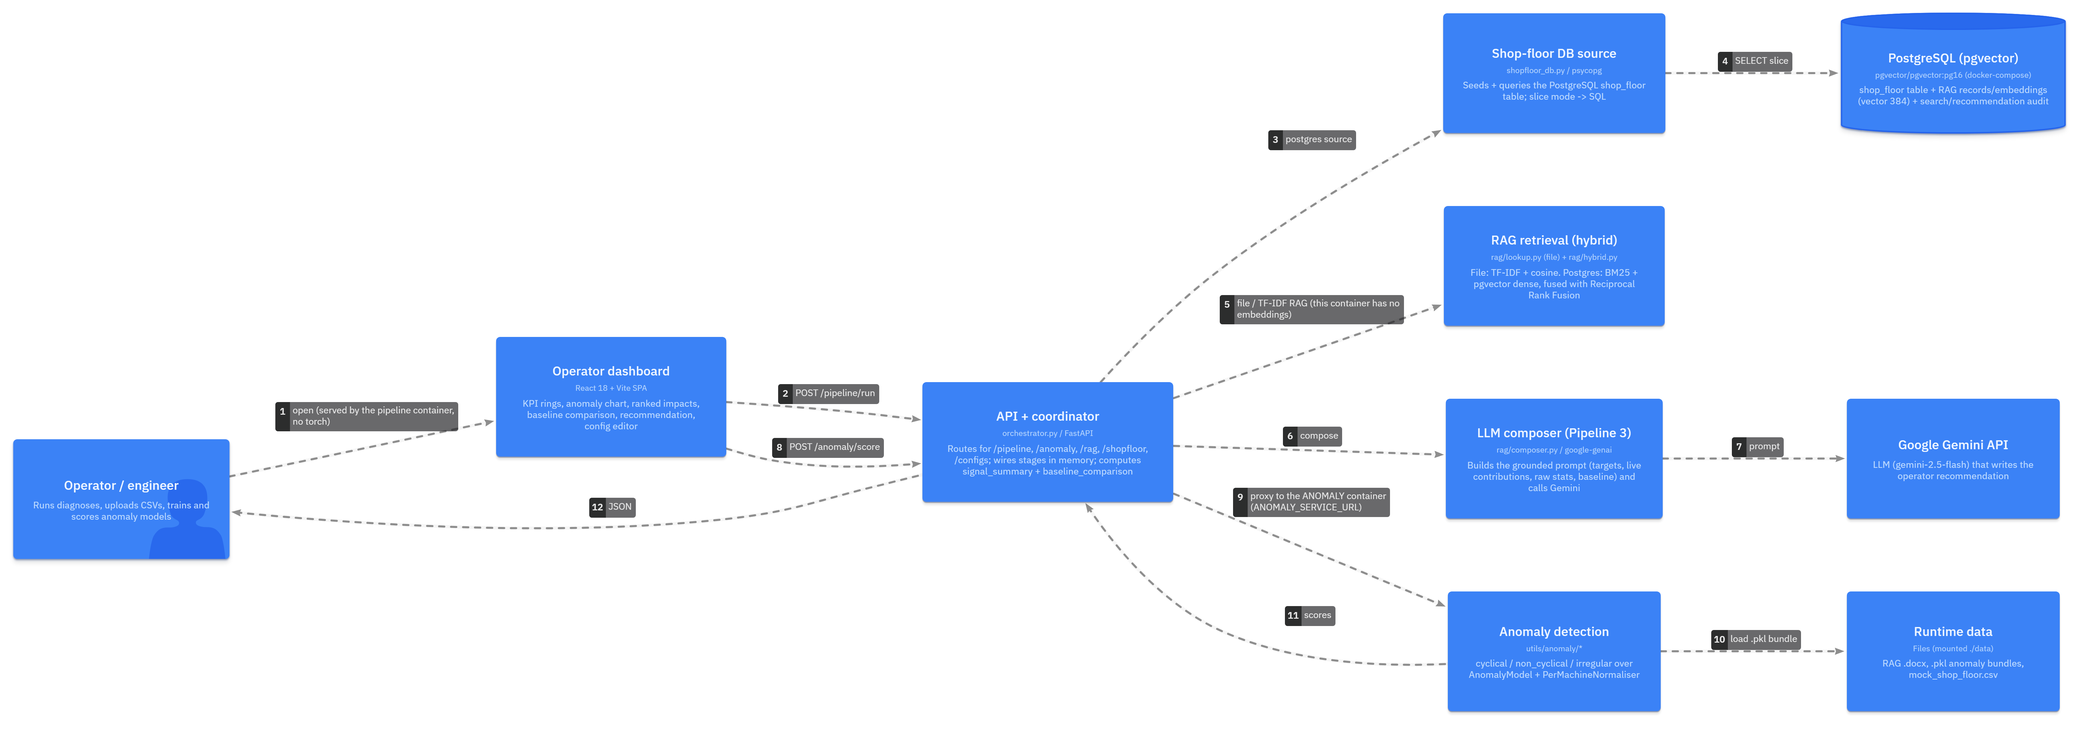
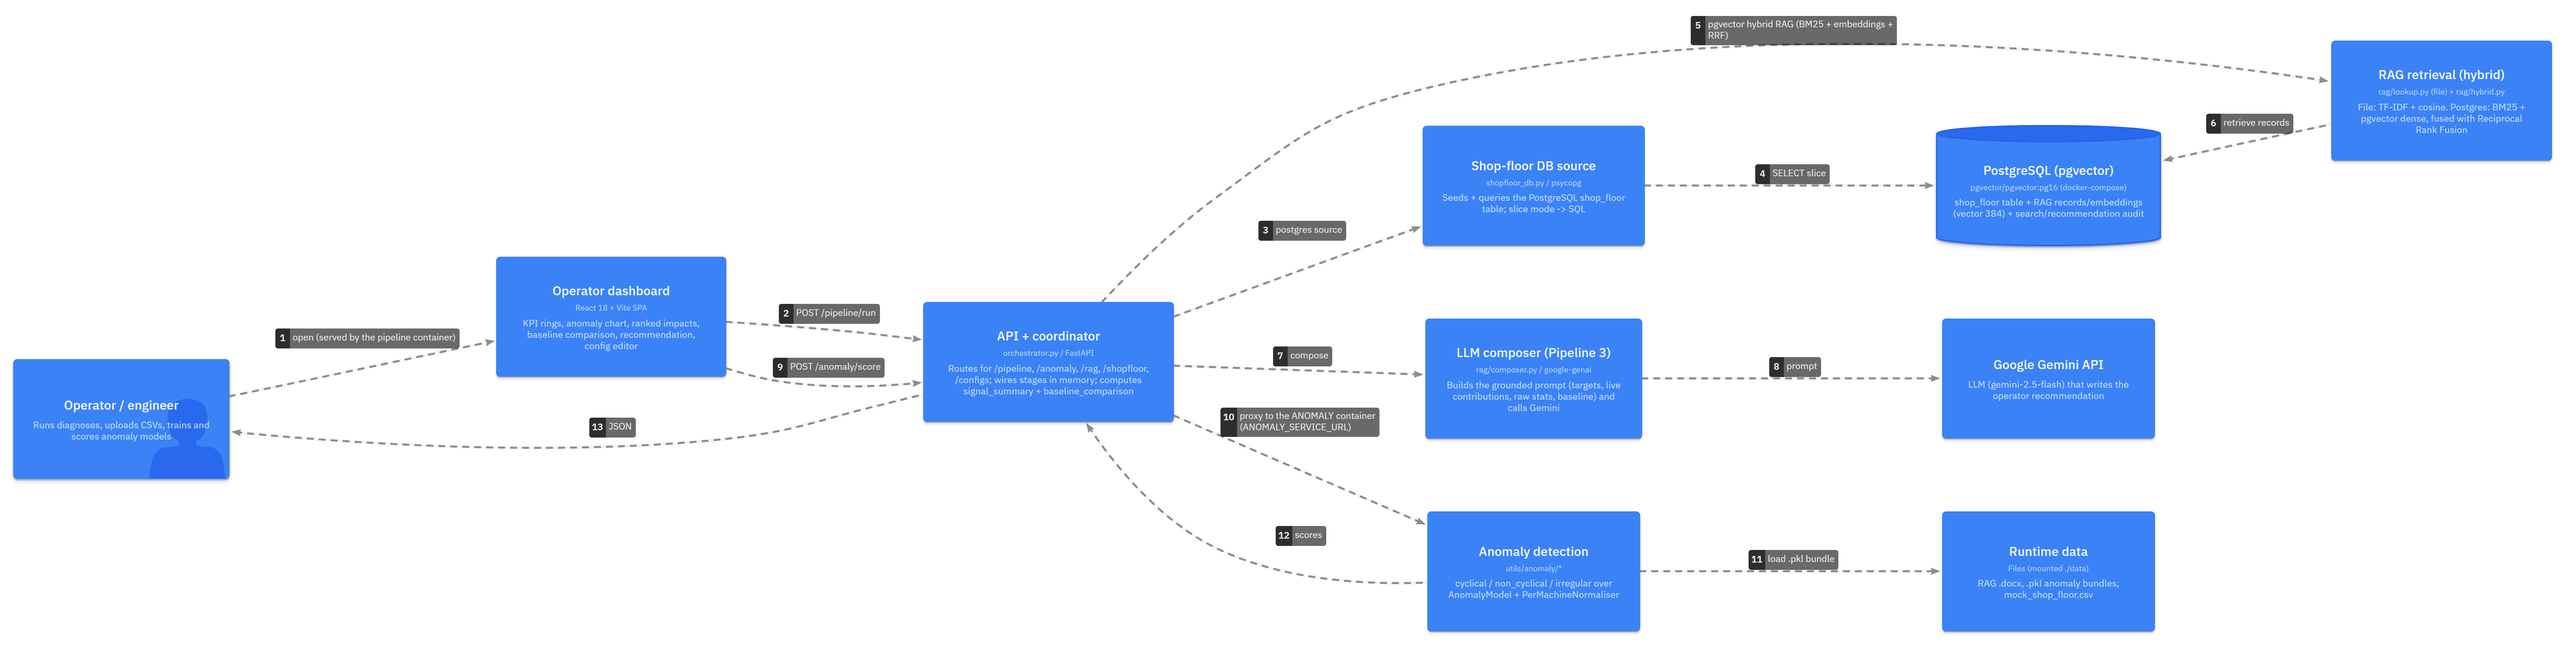
Give the split pipeline the full pgvector hybrid RAG (not file RAG)
Per Dion: the split pipeline container should run the same hybrid RAG (BM25 + dense embeddings + RRF) as the full image, not the lightweight file/TF-IDF fallback. requirements-pipeline.txt + Dockerfile.pipeline now install torch (CPU) + sentence-transformers + transformers + rank-bm25; docker-compose.split.yml sets RAG_BACKEND=postgres + the RAG env + an hf_cache volume. The autoencoder stays in the anomaly container (the split's purpose); the pipeline never imports it.

Trade-off: the pipeline image is now ~2.1GB (carries torch for embeddings), so the split is about operational separation (independent/optional anomaly), not image size. Live-validated: pipeline diagnosis returns rag_backend=postgres + recommendation_status=ok; /anomaly/score proxied to the anomaly container scores via the autoencoder; dashboard served by the pipeline (HTTP 200). 96 pytest pass; C4 splitdeploy view + docs updated.

Changed region(s): [[0.0, 0.0, 0.9984, 0.7741], [0.468, 0.7741, 0.9984, 0.9909]]

diff --git a/pcil/runtime.py b/pcil/runtime.py
@@ -29,9 +29,9 @@ def service() -> str:
 
     full     - single container, every endpoint (default; the :postgres /
                :latest image and the current single-container deployment).
-    pipeline - pipeline + config + shopfloor + RAG + dashboard, NO anomaly
-               (the lightweight, torch-free image); /anomaly/* is proxied to the
-               anomaly service when ANOMALY_SERVICE_URL is set.
+    pipeline - pipeline + config + shopfloor + RAG (incl. pgvector hybrid) +
+               dashboard, NO anomaly; /anomaly/* is proxied to the anomaly
+               service when ANOMALY_SERVICE_URL is set.
     anomaly  - only the /anomaly/* API (the torch image; pcil/anomaly_app.py).
     """
     return os.environ.get("PCIL_SERVICE", "full").lower()

diff --git a/README.md b/README.md
@@ -74,7 +74,7 @@ can also **browse the interactive version** at
 > backend** (pgvector hybrid RAG + a shop-floor table) added alongside the file/CSV path,
 > which stays the default. It is still a **single** orchestrator container (pipeline +
 > anomaly together) by default, but an **optional split deployment** (P2) packages the
-> pipeline (torch-free) and anomaly as two containers - see
+> pipeline and anomaly as two independent containers - see
 > [Split deployment](#split-deployment-p2) below.
 
 ### Level 1 - System context
@@ -135,13 +135,16 @@ By default everything runs in one container (`docker-compose.yml`, the `:postgre
 For an optional split (`docker-compose.split.yml`), the `PCIL_SERVICE` env var packages PCIL
 as **two** containers that share the postgres service:
 
-- **Pipeline** (`:pipeline`, ~0.8 GB, **no torch**) — dashboard + `/pipeline`, `/configs`,
-  `/shopfloor` and the file/TF-IDF RAG. It **proxies `/anomaly/*`** to the anomaly service
-  (`ANOMALY_SERVICE_URL`) so the dashboard keeps working same-origin.
-- **Anomaly** (`:anomaly`, with torch, ~1.8 GB) — only `/anomaly/*` (train / score / models).
+- **Pipeline** (`:pipeline`, ~2.1 GB) — dashboard + `/pipeline`, `/configs`, `/shopfloor`
+  and the full pgvector **hybrid RAG** (BM25 + embeddings + RRF). It **proxies `/anomaly/*`**
+  to the anomaly service (`ANOMALY_SERVICE_URL`) so the dashboard keeps working same-origin.
+- **Anomaly** (`:anomaly`, ~1.8 GB) — only `/anomaly/*` (train / score / models), where the
+  cyclical 1D-CNN autoencoder lives.
 
-Projects that do not need anomaly detection run just `postgres` + `pipeline`. The pgvector
-hybrid RAG stays in the full single-container image (the split pipeline uses the file RAG).
+Both share the postgres service. Projects that do not need anomaly detection run just
+`postgres` + `pipeline`; the anomaly container can also be scaled or called on its own.
+(The split pipeline carries torch for the RAG embeddings, so it is not smaller than the full
+image - the win is operational separation, not size.)
 
 ![Split deployment](docs/c4/splitdeploy.png)
 
@@ -170,10 +173,10 @@ hybrid RAG stays in the full single-container image (the split pipeline uses the
   SQL. The CSV path stays the default. The same pgvector PostgreSQL service backs the
   hybrid RAG store.
 - **Pipeline / anomaly container split (P2) - DONE on this branch.** `PCIL_SERVICE`
-  (full | pipeline | anomaly) splits PCIL into a lightweight, torch-free **Pipeline**
-  container (~0.8 GB) and an **Anomaly** container (torch, ~1.8 GB), via
-  `docker-compose.split.yml` + `Dockerfile.pipeline` / `Dockerfile.anomaly`. The pipeline
-  proxies `/anomaly/*` to the anomaly service. See
+  (full | pipeline | anomaly) splits PCIL into a **Pipeline** container (dashboard +
+  pipeline + hybrid RAG, ~2.1 GB) and an **Anomaly** container (the autoencoder, ~1.8 GB),
+  via `docker-compose.split.yml` + `Dockerfile.pipeline` / `Dockerfile.anomaly`. The
+  pipeline proxies `/anomaly/*` to the anomaly service. See
   [Split deployment](#split-deployment-p2).
 
 ---

diff --git a/DEPLOYMENT.md b/DEPLOYMENT.md
@@ -125,24 +125,27 @@ docker compose down        # stop and remove the container
 
 ## 4b. Split deployment (optional: pipeline + anomaly containers)
 
-By default the single container above runs everything. To run the lightweight,
-torch-free **pipeline** container and the **anomaly** container separately (the
-P2 split), use the split compose file:
+By default the single container above runs everything. To run the **pipeline**
+container and the **anomaly** container separately (the P2 split), use the split
+compose file:
 
 ```bash
 docker compose -f docker-compose.split.yml up -d --build
 ```
 
 This starts three containers: `postgres`, `pipeline` (serves the dashboard +
-`/pipeline`, `/configs`, `/shopfloor`; file/TF-IDF RAG; no torch, ~0.8 GB) and
-`anomaly` (only `/anomaly/*`; torch, ~1.8 GB). The pipeline **proxies
-`/anomaly/*`** to the anomaly container (`ANOMALY_SERVICE_URL`), so the
-dashboard's Anomaly tab still works at `http://localhost:8000`. Projects that do
-not need anomaly detection can run just `postgres` + `pipeline`.
+`/pipeline`, `/configs`, `/shopfloor` and the full pgvector hybrid RAG, ~2.1 GB)
+and `anomaly` (only `/anomaly/*`, where the cyclical autoencoder lives, ~1.8 GB).
+The pipeline **proxies `/anomaly/*`** to the anomaly container
+(`ANOMALY_SERVICE_URL`), so the dashboard's Anomaly tab still works at
+`http://localhost:8000`. Projects that do not need anomaly detection can run just
+`postgres` + `pipeline`.
 
 Notes:
-- The split pipeline uses the **file/TF-IDF RAG** (no embeddings). The pgvector
-  **hybrid RAG** lives only in the full single-container image above.
+- Both containers carry torch (the pipeline for the RAG embeddings, the anomaly
+  service for the autoencoder), so the split is about **operational separation**
+  — independent scaling, and dropping the anomaly container entirely — not image
+  size. For one-box simplicity use the single-container `docker-compose.yml`.
 - Same `.env` (`POSTGRES_PASSWORD`, `GEMINI_API_KEY`, `PCIL_DATA_DIR`). The
   anomaly container is not published on the host by default — uncomment its
   `ports:` in the compose file to call it directly.
